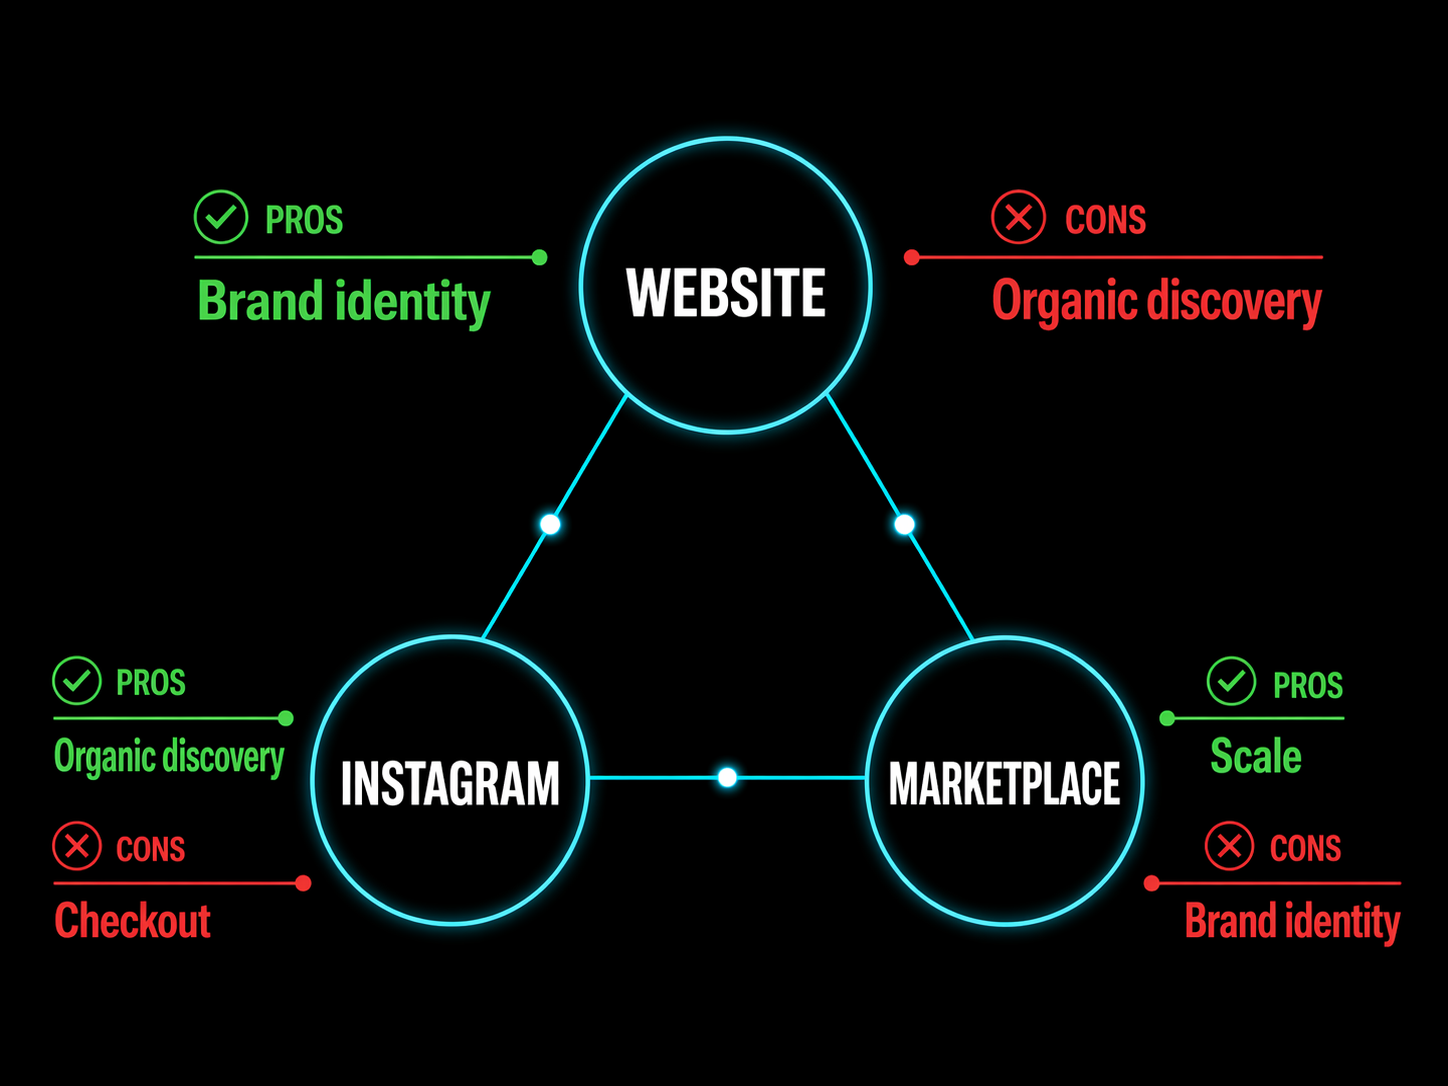
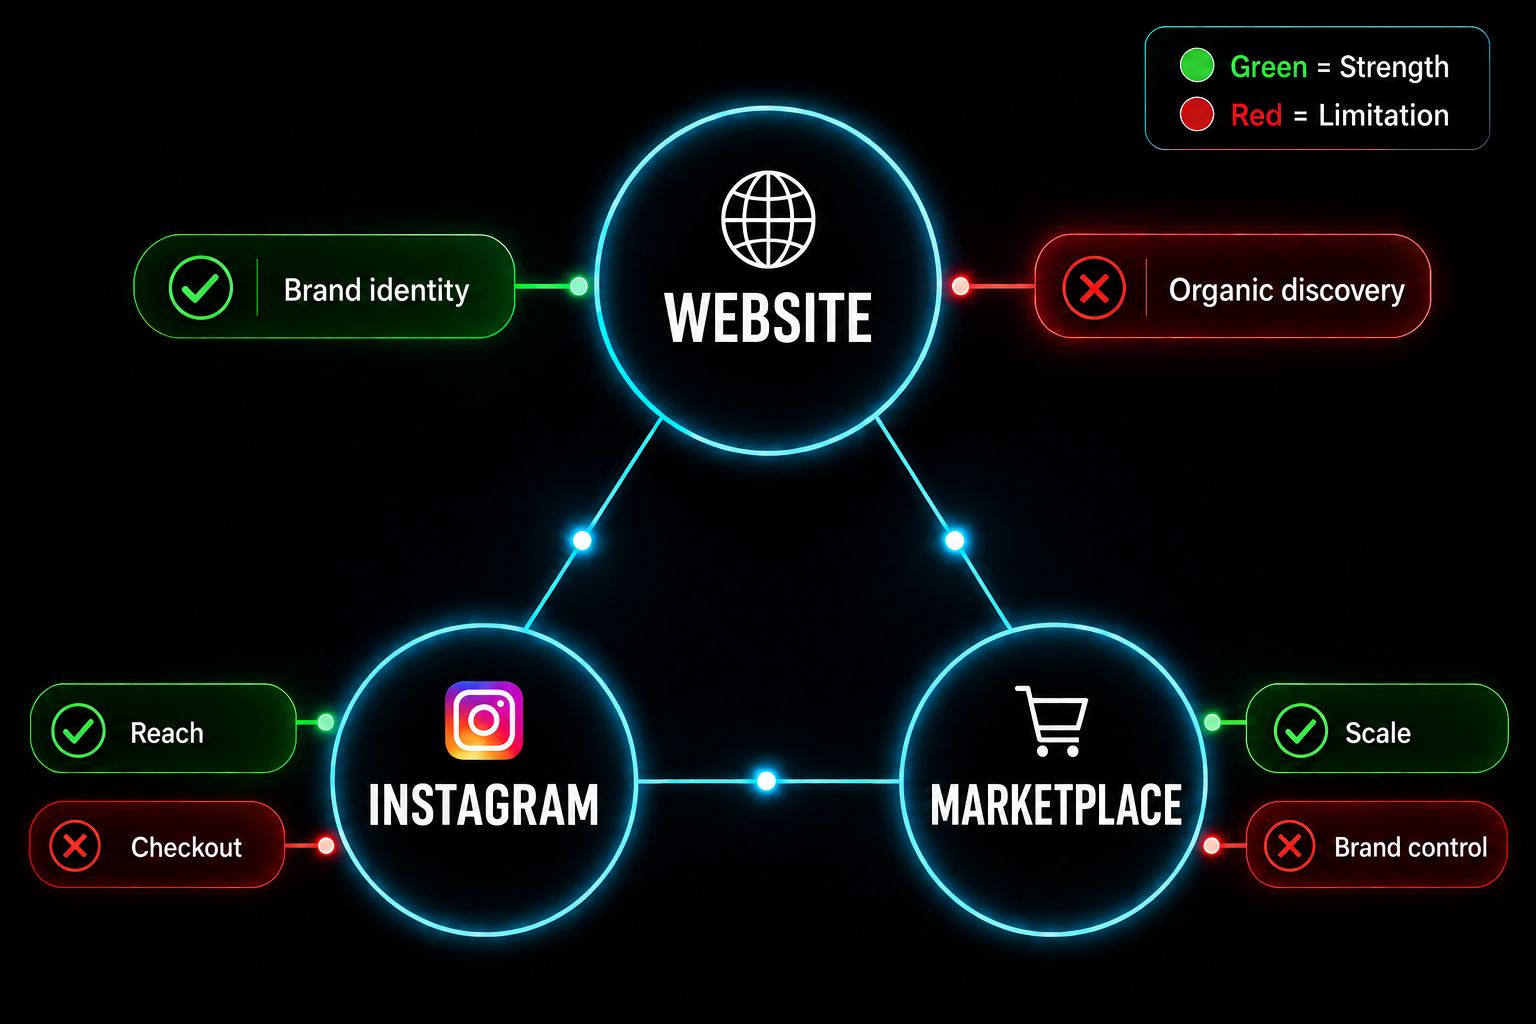
feat: replace problem section image in pitch deck
Swap pitch-triangle-proscons.png with new diagram showing
Website/Instagram/Marketplace triangle with strength/limitation
callouts (green = strength, red = limitation)

Changed region(s): [[0.0, 0.0938, 0.9945, 0.9375], [0.7459, 0.0312, 0.9634, 0.125]]

diff --git a/public/landing/pitch-deck.html b/public/landing/pitch-deck.html
@@ -834,7 +834,7 @@
             <img
               class="triangle-img"
               src="/landing/pitch-triangle-proscons.png"
-              alt="Pros/cons triangle: Website (brand identity, no organic discovery), Instagram (organic discovery, poor checkout), Marketplace (scale, weak brand identity)"
+              alt="The triangle problem: Website (brand identity ✓, organic discovery ✗), Instagram (reach ✓, checkout ✗), Marketplace (scale ✓, brand control ✗)"
               loading="lazy"
             />
           </div>
